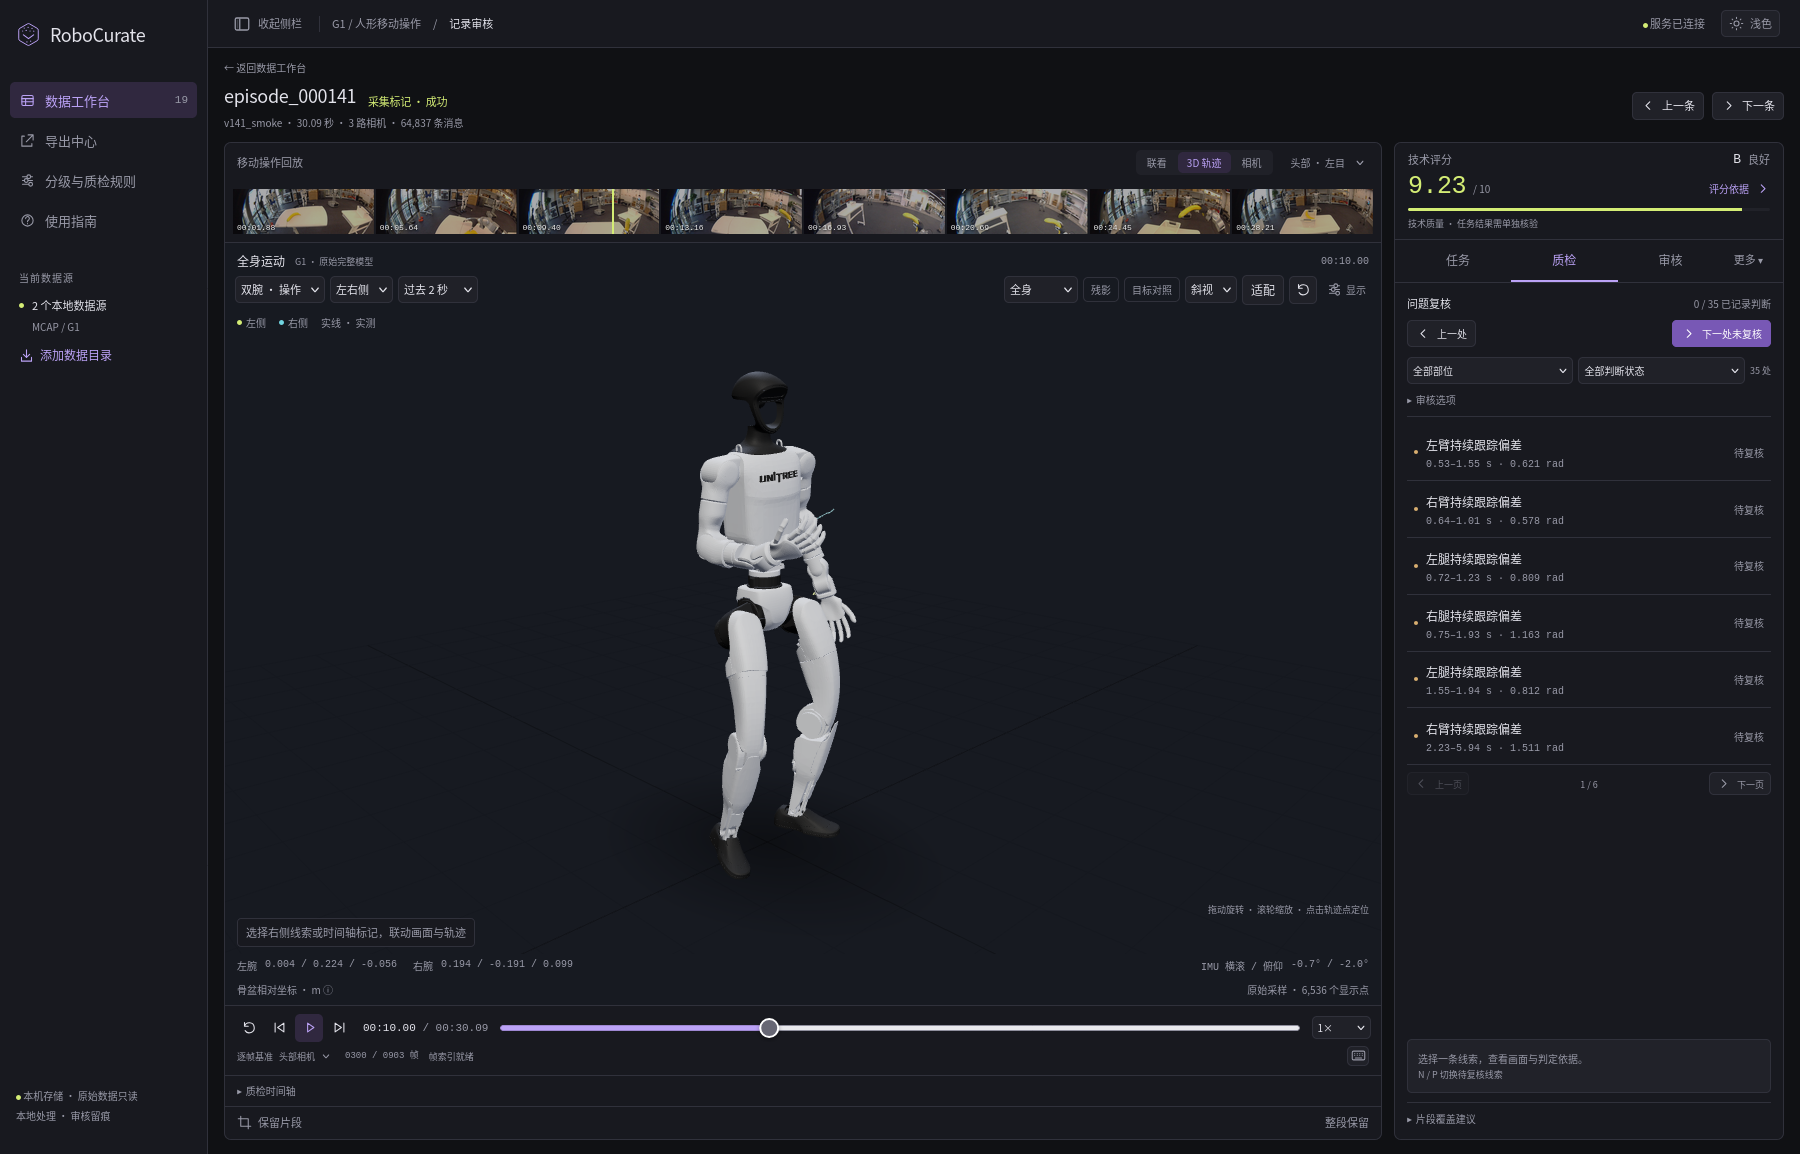
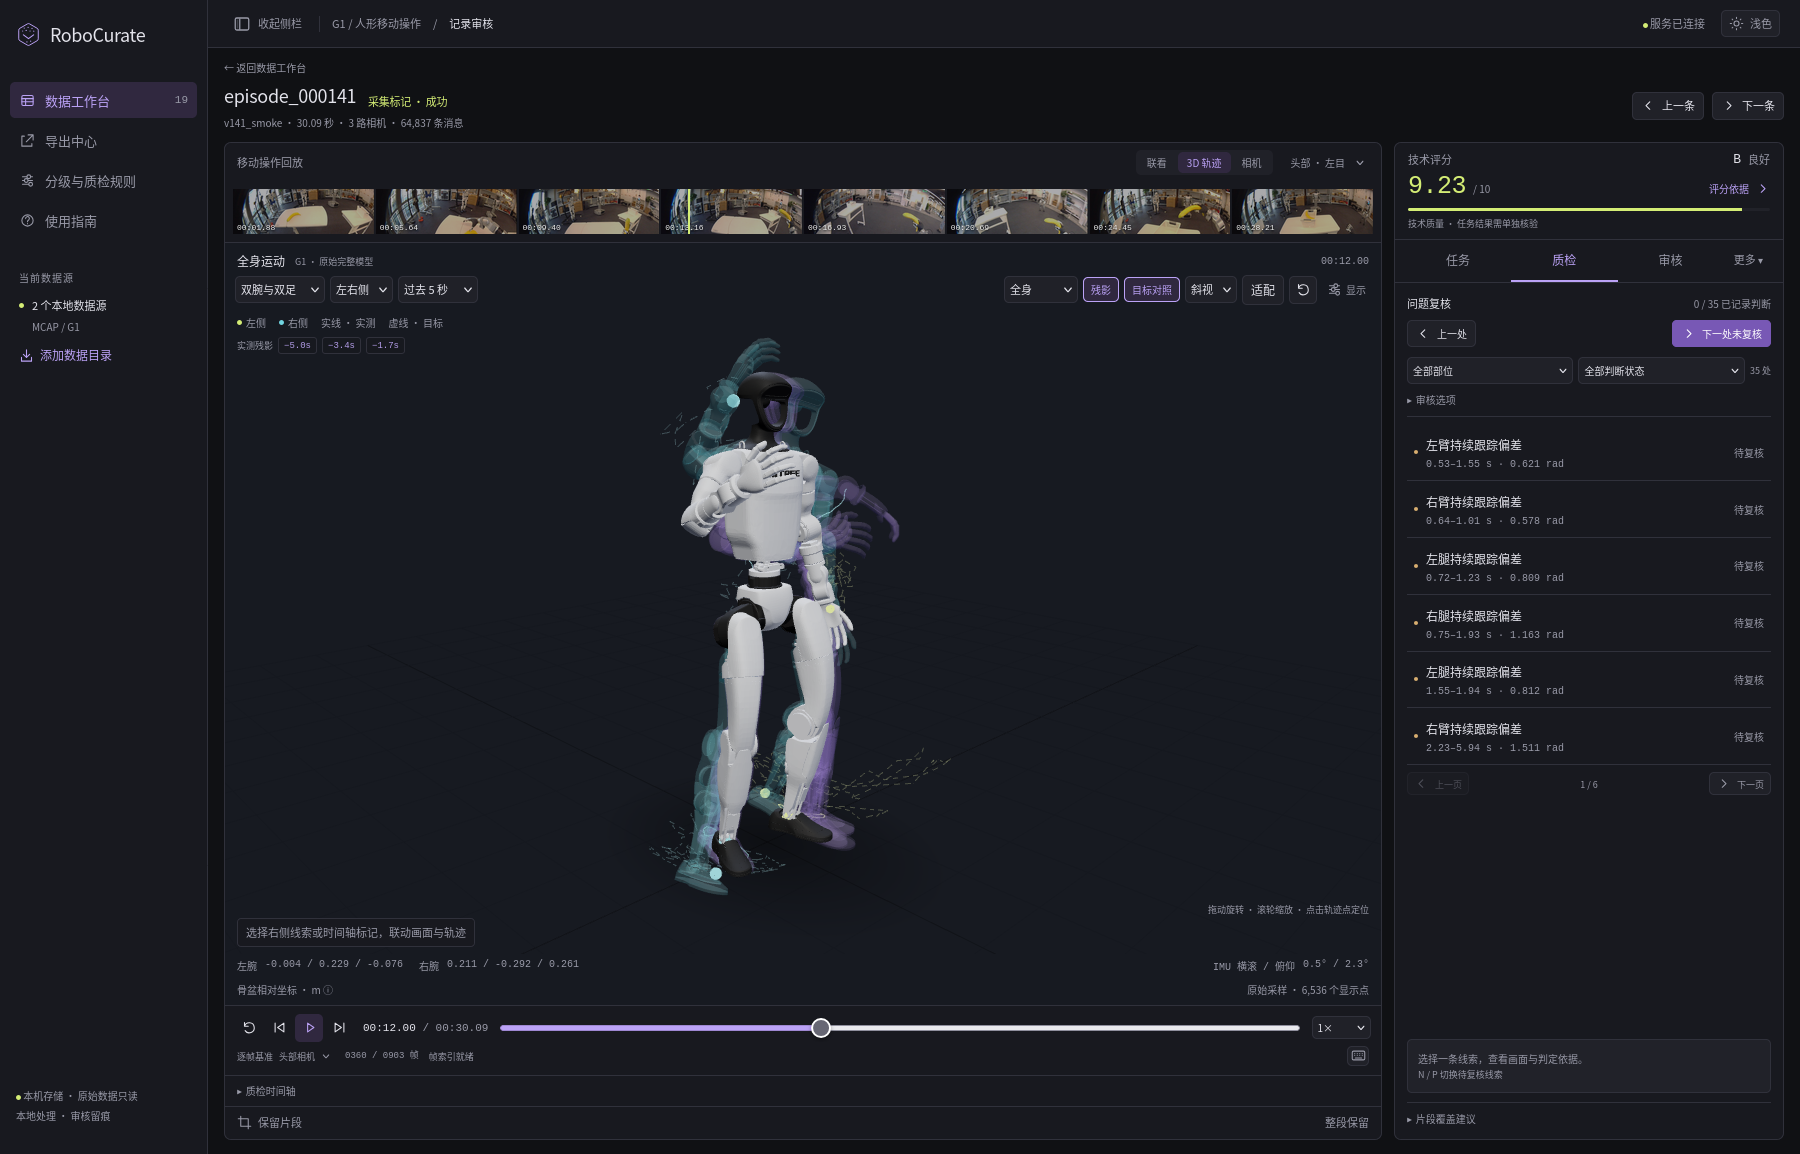
Show recorded pose ghosts and control targets in the interface gallery

diff --git a/README.md b/README.md
@@ -8,7 +8,7 @@ A local workbench for robot demonstrations: synchronized cameras and motion, exp
 
 ## Download
 
-- [Download the v0.1.0-preview.1 source package](https://github.com/Lee-hz/RoboCurate/releases/download/v0.1.0-preview.1/RoboCurate-v0.1.0-preview.1-source.zip), or open [Releases](https://github.com/Lee-hz/RoboCurate/releases) and select the ZIP under **Assets**.
+- [Download the v0.1.0-preview.2 source package](https://github.com/Lee-hz/RoboCurate/releases/download/v0.1.0-preview.2/RoboCurate-v0.1.0-preview.2-source.zip), or open [Releases](https://github.com/Lee-hz/RoboCurate/releases) and select the ZIP under **Assets**.
 - For the latest source, choose **Code → Download ZIP** on the repository page, or [download main](https://github.com/Lee-hz/RoboCurate/archive/refs/heads/main.zip).
 
 Extract the ZIP and follow the instructions below. This is a source distribution for local setup, not a standalone installer. Recordings and model weights are not bundled.
@@ -17,14 +17,16 @@ Extract the ZIP and follow the instructions below. This is a source distribution
 
 The actual RoboCurate workspace reviewing a G1 banana-transfer recording: synchronized camera views, robot-state playback, a ten-point technical score and task-stage evidence from the installed `g1-stage-v3` model. These are direct application screenshots. The recording and model checkpoint used for the screenshots are not bundled.
 
-![RoboCurate: real G1 cameras, three-dimensional robot playback and task-stage evidence](docs/images/task-workspace.png)
+![RoboCurate: real G1 cameras, recorded pose ghosts, control targets and task-stage evidence](docs/images/task-workspace.png)
+
+The purple ghosts show three measured poses from the preceding five seconds. The cyan overlay shows the recorded control-target pose; dashed curves show target trajectories.
 
 <details>
-<summary>Camera detail and motion-quality review</summary>
+<summary>Pose ghosts, target comparison and camera detail</summary>
+
+![G1 recorded pose ghosts, control-target overlay and technical-quality review](docs/images/motion-quality.png)
 
 ![Real camera frames and banana-transfer stage evidence](docs/images/task-cameras.png)
-
-![G1 robot-state playback and technical-quality review queue](docs/images/motion-quality.png)
 
 </details>
 

diff --git a/README.zh-CN.md b/README.zh-CN.md
@@ -6,7 +6,7 @@
 
 ## 下载项目
 
-- **固定版本**：[下载 v0.1.0-preview.1 源码包](https://github.com/Lee-hz/RoboCurate/releases/download/v0.1.0-preview.1/RoboCurate-v0.1.0-preview.1-source.zip)，也可在 [Releases 页面](https://github.com/Lee-hz/RoboCurate/releases) 的 **Assets** 中下载。
+- **固定版本**：[下载 v0.1.0-preview.2 源码包](https://github.com/Lee-hz/RoboCurate/releases/download/v0.1.0-preview.2/RoboCurate-v0.1.0-preview.2-source.zip)，也可在 [Releases 页面](https://github.com/Lee-hz/RoboCurate/releases) 的 **Assets** 中下载。
 - **最新源码**：项目首页点击 **Code → Download ZIP**，或[直接下载 main 分支](https://github.com/Lee-hz/RoboCurate/archive/refs/heads/main.zip)。
 
 下载后解压，按下方说明启动。这是需要安装依赖的源码包，不是双击安装程序；包内不附带录像或模型权重。
@@ -15,14 +15,16 @@
 
 下图直接截取自当前 RoboCurate，使用 G1 搬运香蕉的真实录像与已安装的 `g1-stage-v3` 模型，展示三路相机、机器人三维回放、10 分制技术评分和任务阶段判断。截图对应的录像和模型权重需要另行配置。
 
-![真实 G1 录像、机器人三维回放和任务阶段分析](docs/images/task-workspace.png)
+![真实 G1 录像、实测姿态残影、控制目标对照和任务阶段分析](docs/images/task-workspace.png)
+
+紫色残影为过去 5 秒中的三个实测姿态，青色叠加模型为录制的控制目标姿态，虚线为目标轨迹。
 
 <details>
-<summary>查看更多：相机细节与运动质检</summary>
+<summary>查看更多：姿态残影、目标对照与相机细节</summary>
+
+![G1 实测姿态残影、控制目标对照和质检问题列表](docs/images/motion-quality.png)
 
 ![三路真实相机与香蕉搬运阶段判断](docs/images/task-cameras.png)
-
-![G1 三维回放和质检问题列表](docs/images/motion-quality.png)
 
 </details>
 

diff --git a/docs/SOURCE_PACKAGE.md b/docs/SOURCE_PACKAGE.md
@@ -3,7 +3,7 @@
 Build a local source package from the app source directory:
 
 ```bash
-python3 scripts/build_source_candidate.py --label v0.1.0-preview.1
+python3 scripts/build_source_candidate.py --label v0.1.0-preview.2
 ```
 
 The builder creates a new directory and ZIP under `dist/`; existing outputs are never overwritten. `SOURCE_MANIFEST.json` records each selected file's size and SHA-256. ZIP CRC and file hashes are verified, with a companion checksum and verification report.

diff --git a/CHANGELOG.md b/CHANGELOG.md
@@ -1,5 +1,10 @@
 # Changes
 
+## v0.1.0-preview.2 — 2026-09-18
+
+- Update the interface gallery with measured pose ghosts, recorded control-target poses and target trajectories, captured directly from the application.
+- Explain the visual overlays and provide a matching source download.
+
 ## v0.1.0-preview.1 — 2026-09-18
 
 - Rename the application to RoboCurate and migrate saved browser preferences.
